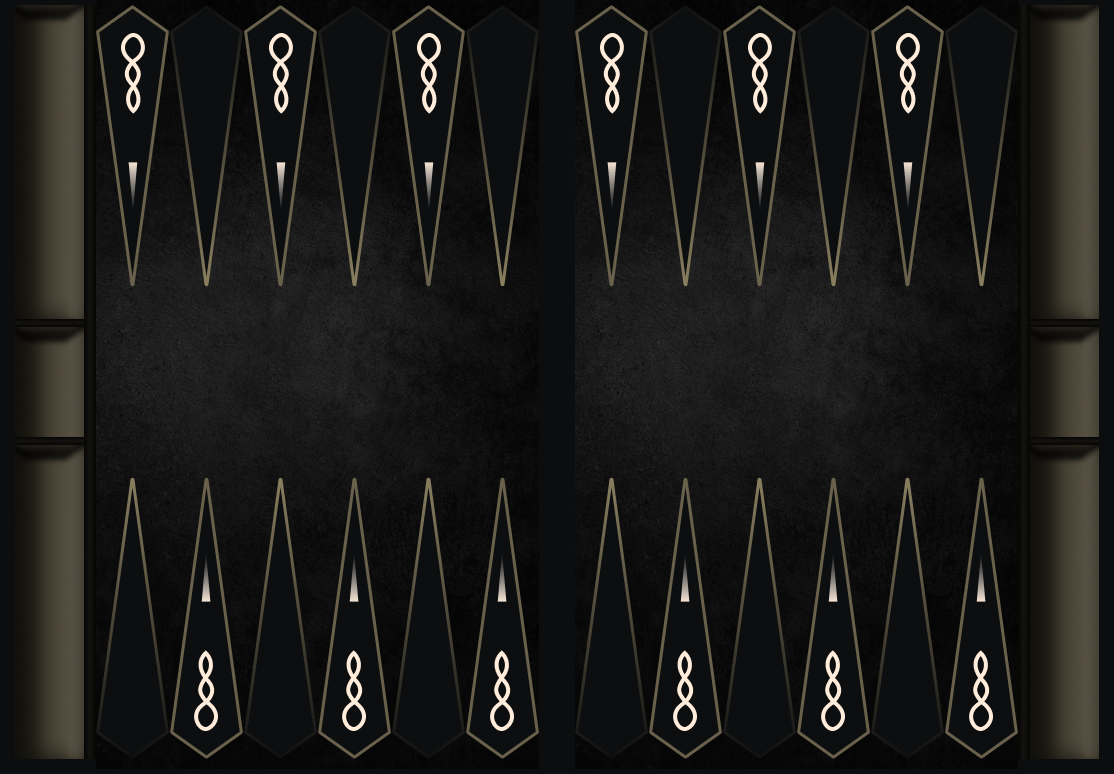
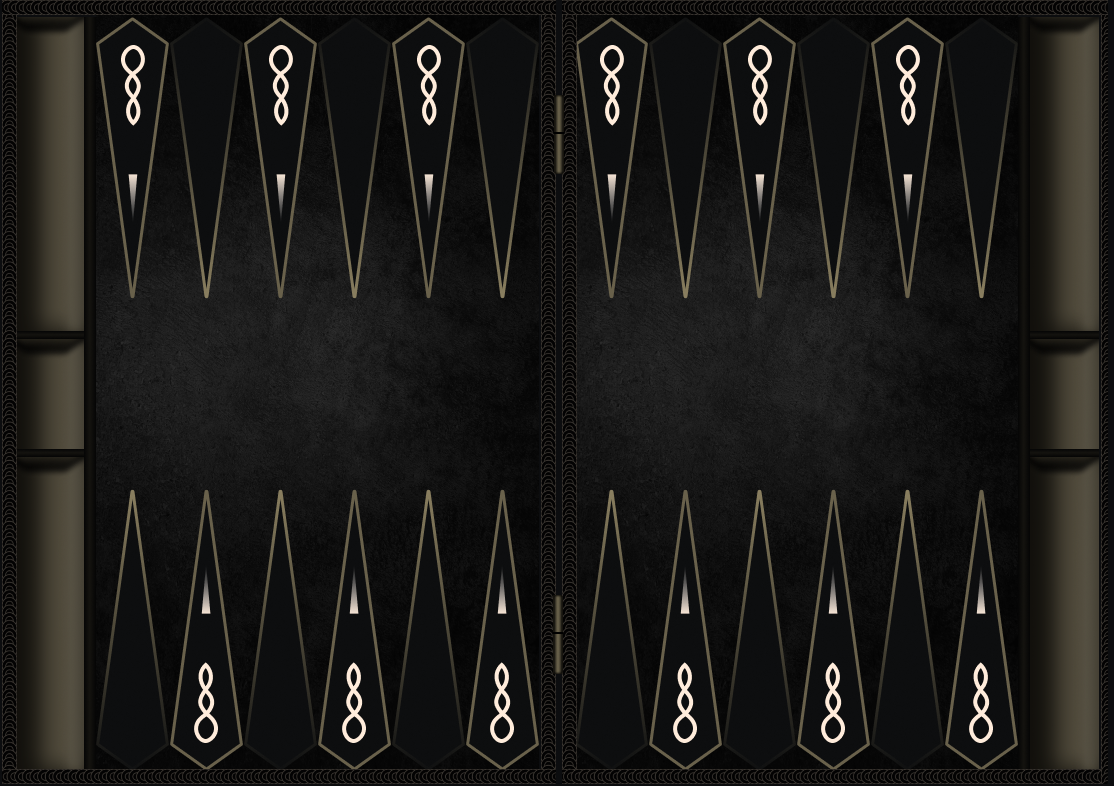
scales fixed

diff --git a/pixi/pixi/src/extensions/backgammon/Board.js b/pixi/pixi/src/extensions/backgammon/Board.js
@@ -25,9 +25,8 @@ Board.prototype.offerMove = function(checker, fromPosition, dice) {
 			if(fromPosition < this.columnHolder.columns[i].index) {
 			
 				
-				if(this.columnHolder.columns[i].occupied != PLAYER_COLOR.BLACK || this.columnHolder.columns[i].container.length > 1) {
+				if(this.columnHolder.columns[i].occupied != PLAYER_COLOR.BLACK || this.columnHolder.columns[i].container.length == 1) {
 					if(fromPosition + dice.first == this.columnHolder.columns[i].index || fromPosition + dice.second == this.columnHolder.columns[i].index) {
-						console.log(0);
 						this.columnHolder.columns[i].focus = true;
 					}
 				}
@@ -74,40 +73,40 @@ Board.prototype.create = function() {
 
 		if(i == 23) {
 			this.columnHolder.get(i).x = (this.global.boardWidth - this.global.boardSidePadding - this.global.checkerSize - this.global.checkerMargin);
-			this.columnHolder.get(i).y = 2;
+			this.columnHolder.get(i).y= this.global.boardTopPaddingHeight;
 		}else if(i == 22) {
-			this.columnHolder.get(i).x = ((this.global.boardWidth) - this.global.boardSidePadding - ((i-11) * this.global.checkerSize) - ((i) * this.global.checkerMargin));
-			this.columnHolder.get(i).y = 2;
+			this.columnHolder.get(i).x = ((this.global.boardWidth) - this.global.boardSidePadding - ((2) * this.global.checkerSize) - ((1) * this.global.checkerMargin));
+			this.columnHolder.get(i).y= this.global.boardTopPaddingHeight;
 		}else if(i == 21) {
-			this.columnHolder.get(i).x = ((this.global.boardWidth) - this.global.boardSidePadding - ((i-11) * this.global.checkerSize) - ((i) * this.global.checkerMargin));
-			this.columnHolder.get(i).y = 2;
+			this.columnHolder.get(i).x = ((this.global.boardWidth) - this.global.boardSidePadding - ((3) * this.global.checkerSize) - ((2) * this.global.checkerMargin));
+			this.columnHolder.get(i).y= this.global.boardTopPaddingHeight;
 		}else if(i == 20) {
-			this.columnHolder.get(i).x = ((this.global.boardWidth) - this.global.boardSidePadding - ((i-11) * this.global.checkerSize) - ((i) * this.global.checkerMargin));
-			this.columnHolder.get(i).y = 2;
+			this.columnHolder.get(i).x = ((this.global.boardWidth) - this.global.boardSidePadding - ((4) * this.global.checkerSize) - ((3) * this.global.checkerMargin));
+			this.columnHolder.get(i).y= this.global.boardTopPaddingHeight;
 		}else if(i == 19) {
-			this.columnHolder.get(i).x = ((this.global.boardWidth) - this.global.boardSidePadding - ((i-11) * this.global.checkerSize) - ((i) * this.global.checkerMargin));
-			this.columnHolder.get(i).y = 2;
+			this.columnHolder.get(i).x = ((this.global.boardWidth) - this.global.boardSidePadding - ((5) * this.global.checkerSize) - ((4) * this.global.checkerMargin));
+			this.columnHolder.get(i).y= this.global.boardTopPaddingHeight;
 		}else if(i == 18) {
-			this.columnHolder.get(i).x = ((this.global.boardWidth) - this.global.boardSidePadding - ((i-11) * this.global.checkerSize) - ((i) * this.global.checkerMargin));
-			this.columnHolder.get(i).y = 2;
+			this.columnHolder.get(i).x = ((this.global.boardWidth) - this.global.boardSidePadding - ((6) * this.global.checkerSize) - ((5) * this.global.checkerMargin));
+			this.columnHolder.get(i).y= this.global.boardTopPaddingHeight;
 		}else if(i == 17) {
-			this.columnHolder.get(i).x = ((this.global.boardWidth) - this.global.boardSidePadding - ((i-11) * this.global.checkerSize) - ((i) * this.global.checkerMargin));
-			this.columnHolder.get(i).y = 2;
+			this.columnHolder.get(i).x = ((this.global.boardWidth) - this.global.boardSidePadding - ((7) * this.global.checkerSize) - ((6) * this.global.checkerMargin))- this.global.boardCenterPadding;
+			this.columnHolder.get(i).y= this.global.boardTopPaddingHeight;
 		}else if(i == 16) {
-			this.columnHolder.get(i).x = ((this.global.boardWidth) - this.global.boardSidePadding - ((i-11) * this.global.checkerSize) - ((i) * this.global.checkerMargin))- this.global.boardCenterPadding;
-			this.columnHolder.get(i).y = 2;
+			this.columnHolder.get(i).x = ((this.global.boardWidth) - this.global.boardSidePadding - ((8) * this.global.checkerSize) - ((7) * this.global.checkerMargin))- this.global.boardCenterPadding;
+			this.columnHolder.get(i).y= this.global.boardTopPaddingHeight;
 		}else if(i == 15) {
-			this.columnHolder.get(i).x = ((this.global.boardWidth) - this.global.boardSidePadding - ((i-11) * this.global.checkerSize) - ((i) * this.global.checkerMargin))- this.global.boardCenterPadding;
-			this.columnHolder.get(i).y = 2;
+			this.columnHolder.get(i).x = ((this.global.boardWidth) - this.global.boardSidePadding - ((9) * this.global.checkerSize) - ((8) * this.global.checkerMargin))- this.global.boardCenterPadding;
+			this.columnHolder.get(i).y= this.global.boardTopPaddingHeight;
 		}else if(i == 14) {
-			this.columnHolder.get(i).x = ((this.global.boardWidth) - this.global.boardSidePadding - ((i-11) * this.global.checkerSize) - ((i-1) * this.global.checkerMargin))- this.global.boardCenterPadding;
-			this.columnHolder.get(i).y = 2;
+			this.columnHolder.get(i).x = ((this.global.boardWidth) - this.global.boardSidePadding - ((10) * this.global.checkerSize) - ((9) * this.global.checkerMargin))- this.global.boardCenterPadding;
+			this.columnHolder.get(i).y= this.global.boardTopPaddingHeight;
 		}else if(i == 13) {
-			this.columnHolder.get(i).x = ((this.global.boardWidth) - this.global.boardSidePadding - ((i-11) * this.global.checkerSize) - ((i-1) * this.global.checkerMargin))- this.global.boardCenterPadding;
-			this.columnHolder.get(i).y = 2;
+			this.columnHolder.get(i).x = ((this.global.boardWidth) - this.global.boardSidePadding - ((11) * this.global.checkerSize) - ((10) * this.global.checkerMargin))- this.global.boardCenterPadding;
+			this.columnHolder.get(i).y= this.global.boardTopPaddingHeight;
 		}else if(i == 12) {
-			this.columnHolder.get(i).x = ((this.global.boardWidth) - this.global.boardSidePadding - ((i) * this.global.checkerSize) - ((i-1) * this.global.checkerMargin))- this.global.boardCenterPadding;;
-			this.columnHolder.get(i).y = 2;
+			this.columnHolder.get(i).x = ((this.global.boardWidth) - this.global.boardSidePadding - ((12) * this.global.checkerSize) - ((11) * this.global.checkerMargin))- this.global.boardCenterPadding;;
+			this.columnHolder.get(i).y= this.global.boardTopPaddingHeight;
 		}
 	}
 
@@ -119,40 +118,40 @@ Board.prototype.create = function() {
 		
 		if(i == 0) {
 			this.columnHolder.get(i).x = (this.global.boardWidth - this.global.boardSidePadding - this.global.checkerSize - this.global.checkerMargin);
-			this.columnHolder.get(i).y = 2;
+			this.columnHolder.get(i).y= this.global.boardTopPaddingHeight;
 		}else if(i == 1) {
 			this.columnHolder.get(i).x = ((this.global.boardWidth) - this.global.boardSidePadding - ((i+1) * this.global.checkerSize) - ((i) * this.global.checkerMargin));
-			this.columnHolder.get(i).y = 2;
+			this.columnHolder.get(i).y= this.global.boardTopPaddingHeight;
 		}else if(i == 2) {
 			this.columnHolder.get(i).x = ((this.global.boardWidth) - this.global.boardSidePadding - ((i+1) * this.global.checkerSize) - ((i) * this.global.checkerMargin));
-			this.columnHolder.get(i).y = 2;
+			this.columnHolder.get(i).y= this.global.boardTopPaddingHeight;
 		}else if(i == 3) {
 			this.columnHolder.get(i).x = ((this.global.boardWidth) - this.global.boardSidePadding - ((i+1) * this.global.checkerSize) - ((i) * this.global.checkerMargin));
-			this.columnHolder.get(i).y = 2;
+			this.columnHolder.get(i).y= this.global.boardTopPaddingHeight;
 		}else if(i == 4) {
 			this.columnHolder.get(i).x = ((this.global.boardWidth) - this.global.boardSidePadding - ((i+1) * this.global.checkerSize) - ((i) * this.global.checkerMargin));
-			this.columnHolder.get(i).y = 2;
+			this.columnHolder.get(i).y= this.global.boardTopPaddingHeight;
 		}else if(i == 5) {
 			this.columnHolder.get(i).x = ((this.global.boardWidth) - this.global.boardSidePadding - ((i+1) * this.global.checkerSize) - ((i) * this.global.checkerMargin));
-			this.columnHolder.get(i).y = 2;
+			this.columnHolder.get(i).y= this.global.boardTopPaddingHeight;
 		}else if(i == 6) {
-			this.columnHolder.get(i).x = ((this.global.boardWidth) - this.global.boardSidePadding - ((i+1) * this.global.checkerSize) - ((i) * this.global.checkerMargin));
-			this.columnHolder.get(i).y = 2;
+			this.columnHolder.get(i).x = ((this.global.boardWidth) - this.global.boardSidePadding - ((i+1) * this.global.checkerSize) - ((i) * this.global.checkerMargin))- this.global.boardCenterPadding;
+			this.columnHolder.get(i).y= this.global.boardTopPaddingHeight;
 		}else if(i == 7) {
 			this.columnHolder.get(i).x = ((this.global.boardWidth) - this.global.boardSidePadding - ((i+1) * this.global.checkerSize) - ((i) * this.global.checkerMargin))- this.global.boardCenterPadding;
-			this.columnHolder.get(i).y = 2;
+			this.columnHolder.get(i).y= this.global.boardTopPaddingHeight;
 		}else if(i == 8) {
 			this.columnHolder.get(i).x = ((this.global.boardWidth) - this.global.boardSidePadding - ((i+1) * this.global.checkerSize) - ((i) * this.global.checkerMargin))- this.global.boardCenterPadding;
-			this.columnHolder.get(i).y = 2;
+			this.columnHolder.get(i).y= this.global.boardTopPaddingHeight;
 		}else if(i == 9) {
 			this.columnHolder.get(i).x = ((this.global.boardWidth) - this.global.boardSidePadding - ((i+1) * this.global.checkerSize) - ((i) * this.global.checkerMargin))- this.global.boardCenterPadding;
-			this.columnHolder.get(i).y = 2;
+			this.columnHolder.get(i).y= this.global.boardTopPaddingHeight;
 		}else if(i == 10) {
 			this.columnHolder.get(i).x = ((this.global.boardWidth) - this.global.boardSidePadding - ((i+1) * this.global.checkerSize) - ((i) * this.global.checkerMargin))- this.global.boardCenterPadding;
-			this.columnHolder.get(i).y = 2;
+			this.columnHolder.get(i).y= this.global.boardTopPaddingHeight;
 		}else if(i == 11) {
 			this.columnHolder.get(i).x = ((this.global.boardWidth) - this.global.boardSidePadding - ((i+1) * this.global.checkerSize) - ((i) * this.global.checkerMargin))- this.global.boardCenterPadding;;
-			this.columnHolder.get(i).y = 2;
+			this.columnHolder.get(i).y= this.global.boardTopPaddingHeight;
 		}
 
 	}

diff --git a/pixi/pixi/src/components/game/Game.vue b/pixi/pixi/src/components/game/Game.vue
@@ -12,30 +12,30 @@
 						</ul>
 					</div>
 					<img id="board-bg" class="img-fluid" src="./../../assets/game/img/board.png" />
-					<column @touch="touch" :data="game.board.getColumnAt(0)" />
-					<column :data="game.board.getColumnAt(1)"/>
-					<column :data="game.board.getColumnAt(2)" />
-					<column :data="game.board.getColumnAt(3)" />
-					<column :data="game.board.getColumnAt(4)" />
-					<column :data="game.board.getColumnAt(5)" />
-					<column :data="game.board.getColumnAt(6)" />
-					<column :data="game.board.getColumnAt(7)" />
-					<column :data="game.board.getColumnAt(8)" />
-					<column :data="game.board.getColumnAt(9)" />
-					<column :data="game.board.getColumnAt(10)" />
-					<column :data="game.board.getColumnAt(11)" />
-					<column :data="game.board.getColumnAt(12)" />
-					<column :data="game.board.getColumnAt(13)" />
-					<column :data="game.board.getColumnAt(14)" />
-					<column :data="game.board.getColumnAt(15)" />
-					<column :data="game.board.getColumnAt(16)" />
-					<column :data="game.board.getColumnAt(17)" />
-					<column :data="game.board.getColumnAt(18)" />
-					<column :data="game.board.getColumnAt(19)" />
-					<column :data="game.board.getColumnAt(20)" />
-					<column :data="game.board.getColumnAt(21)" />
-					<column :data="game.board.getColumnAt(22)" />
-					<column :data="game.board.getColumnAt(23)" />
+					<column @touch="touch" :global-vars="game.global" :data="game.board.getColumnAt(0)" />
+					<column @touch="touch" :global-vars="game.global" :data="game.board.getColumnAt(1)"/>
+					<column @touch="touch" :global-vars="game.global" :data="game.board.getColumnAt(2)" />
+					<column @touch="touch" :global-vars="game.global" :data="game.board.getColumnAt(3)" />
+					<column @touch="touch" :global-vars="game.global" :data="game.board.getColumnAt(4)" />
+					<column @touch="touch" :global-vars="game.global" :data="game.board.getColumnAt(5)" />
+					<column @touch="touch" :global-vars="game.global" :data="game.board.getColumnAt(6)" />
+					<column @touch="touch" :global-vars="game.global" :data="game.board.getColumnAt(7)" />
+					<column @touch="touch" :global-vars="game.global" :data="game.board.getColumnAt(8)" />
+					<column @touch="touch" :global-vars="game.global" :data="game.board.getColumnAt(9)" />
+					<column @touch="touch" :global-vars="game.global" :data="game.board.getColumnAt(10)" />
+					<column @touch="touch" :global-vars="game.global" :data="game.board.getColumnAt(11)" />
+					<column @touch="touch" :global-vars="game.global" :data="game.board.getColumnAt(12)" />
+					<column @touch="touch" :global-vars="game.global" :data="game.board.getColumnAt(13)" />
+					<column @touch="touch" :global-vars="game.global" :data="game.board.getColumnAt(14)" />
+					<column @touch="touch" :global-vars="game.global" :data="game.board.getColumnAt(15)" />
+					<column @touch="touch" :global-vars="game.global" :data="game.board.getColumnAt(16)" />
+					<column @touch="touch" :global-vars="game.global" :data="game.board.getColumnAt(17)" />
+					<column @touch="touch" :global-vars="game.global" :data="game.board.getColumnAt(18)" />
+					<column @touch="touch" :global-vars="game.global" :data="game.board.getColumnAt(19)" />
+					<column @touch="touch" :global-vars="game.global" :data="game.board.getColumnAt(20)" />
+					<column @touch="touch" :global-vars="game.global" :data="game.board.getColumnAt(21)" />
+					<column @touch="touch" :global-vars="game.global" :data="game.board.getColumnAt(22)" />
+					<column @touch="touch" :global-vars="game.global" :data="game.board.getColumnAt(23)" />
 					</template>
 				</div>
 			</div>

diff --git a/pixi/pixi/src/components/game/Column.vue b/pixi/pixi/src/components/game/Column.vue
@@ -1,12 +1,14 @@
 <template>
-	<ul class="column-holder" :class="{'top-column': (data.index < 12), 'bottom-column': (data.index > 11)}" :style="{top: (data.index < 12) ? data.y+'px' : 'initial',bottom: (data.index > 11 ) ? data.y+'px' : 'initial' , left: data.x+'px'}" v-if="data">
-		<li :style="{'margin-top': (data.index < 12) ? '-50%' : 'initial','margin-bottom': (data.index > 11 ) ? '-50%' : 'initial'}" @click="$emit('touch', checker.index)" v-for="checker in data.container" :key="checker.index">
-			<img class="checker img-fluid" :style="{width: checker.width+'px'}" v-if="checker.color == playerColor.WHITE" src="@/assets/game/img/white-checker.png" />
-			<img class="checker img-fluid" :style="{width: checker.width+'px'}" v-if="checker.color == playerColor.BLACK" src="@/assets/game/img/black-checker.png" />
-			<img v-show="checker.selected" :style="{width: checker.width+'px'}" class="checker checker-selected img-fluid" src="@/assets/game/img/checker-selected.png" />
-			<img v-show="data.focus" :style="'width:'+checker.width+'px'" src="@/assets/game/img/column-selected.svg" class="column-selected" />
-		</li>
-	</ul>
+	<div :class="{'top-column': (data.index < 12), 'bottom-column': (data.index > 11)}" class="column-wrapper" v-if="data" :style="{top: (data.index < 12) ? data.y+'px' : 'initial',bottom: (data.index > 11 ) ? data.y+'px' : 'initial' , left: data.x+'px', width: globalVars.checkerSize+'px'}">
+		<img :style="{width: globalVars.checkerSize+'px'}" v-show="data.focus" src="@/assets/game/img/column-selected.svg" class="column-selected" />
+		<ul class="column-holder">
+			<li :style="{'margin-top': (data.index < 12) ? '-50%' : 'initial','margin-bottom': (data.index > 11 ) ? '-50%' : 'initial'}" @click="$emit('touch', checker.index)" v-for="checker in data.container" :key="checker.index">
+				<img class="checker img-fluid" :style="{width: checker.width+'px'}" v-if="checker.color == playerColor.WHITE" src="@/assets/game/img/white-checker.png" />
+				<img class="checker img-fluid" :style="{width: checker.width+'px'}" v-if="checker.color == playerColor.BLACK" src="@/assets/game/img/black-checker.png" />
+				<img v-show="checker.selected" :style="{width: checker.width+'px'}" class="checker checker-selected img-fluid" src="@/assets/game/img/checker-selected.png" />
+			</li>
+		</ul>
+	</div>
 </template>
 <script>
 	import {PLAYER_COLOR} from "@/extensions/backgammon/Player.js";
@@ -15,28 +17,28 @@
 			data: {
 				type: Object
 			},
+			globalVars: {
+				type: Object
+			}
 		},
 		data() {
 			return {
 				playerColor: PLAYER_COLOR
 			}
-		},
-		methods: {
-
-		},
-		created() {
-		
 		}
 	}
 </script>
 <style>
+	.column-wrapper {
+		position: absolute;
+	}
 	.checker-selected {
 		position: absolute;
 		left: 0;
 	}
 
 	.column-holder {
-		position: absolute;
+		position: relative;
 		list-style: none;
 		margin: 0;
 		padding: 0;
@@ -60,7 +62,10 @@
 		transform: rotate(180deg);
 	}
 
-	.column-selected {
 
+	.column-selected {
+		position: absolute;
+		left: 0;
+		right: 0;
 	}
 </style>

diff --git a/pixi/pixi/src/extensions/backgammon/Global.js b/pixi/pixi/src/extensions/backgammon/Global.js
@@ -4,6 +4,7 @@ function Global() {
 	this.checkerSizePercent = 6.44;
 	this.checkerMarginPercent = 0.26;
 	this.boardRatio = 1.44
+	this.boardTopPaddingSizePercent = 2.5;
 }
 
 Global.prototype.gameWidth = undefined;
@@ -14,6 +15,7 @@ Global.prototype.checkerSize = undefined;
 Global.prototype.boardSidePadding = undefined;
 Global.prototype.checkerMargin = undefined;
 Global.prototype.boardCenterPadding = undefined;
+Global.prototype.boardTopPaddingHeight = undefined;
 
 Global.prototype.init = function() {
 	this.gameWidth = document.getElementById("game").offsetWidth;
@@ -31,6 +33,7 @@ Global.prototype.init = function() {
 	this.checkerMargin = this.boardWidth * (this.checkerMarginPercent / 100);
 	this.boardSidePadding = this.boardWidth * (this.boardSideSizePercent / 100);
 	this.boardCenterPadding = this.boardWidth * (this.boardCenterSizePercent / 100);
+	this.boardTopPaddingHeight = this.boardHeight * (this.boardTopPaddingSizePercent / 100);
 }
 
 

diff --git a/pixi/pixi/src/extensions/backgammon/Game.js b/pixi/pixi/src/extensions/backgammon/Game.js
@@ -33,7 +33,7 @@ Game.prototype.touchChecker = function(index)
 
 Game.prototype.move = function()
 {
-	this.playerWhite.moveChecker(12, 8);
+	this.playerWhite.moveChecker(12, 17);
 	// this.playerBlack.moveChecker(13, 8);
 }
 
@@ -78,6 +78,8 @@ Game.prototype.init = function()
 			.style.height = this.global.boardHeight + "px"
 		document.getElementById("board-bg")
 			.style.width = this.global.boardWidth + "px"
+		document.getElementById("board-bg")
+			.style.height = this.global.boardHeight + "px"
 	});
 
 }

diff --git a/pixi/pixi/src/extensions/backgammon/CheckersUtil.js b/pixi/pixi/src/extensions/backgammon/CheckersUtil.js
@@ -14,12 +14,12 @@ export default {
 					checkers[i].position = 11;
 					board.position(checkers[i], 11);
 				}else if(i < 12) {
-					checkers[i].position = 16;
-					board.position(checkers[i], 16);
+					checkers[i].position = 18;
+					board.position(checkers[i], 18);
 				}else {
 
-					checkers[i].position = 19;
-					board.position(checkers[i], 19);
+					checkers[i].position = 16;
+					board.position(checkers[i], 16);
 				}
 			}
 			break;
